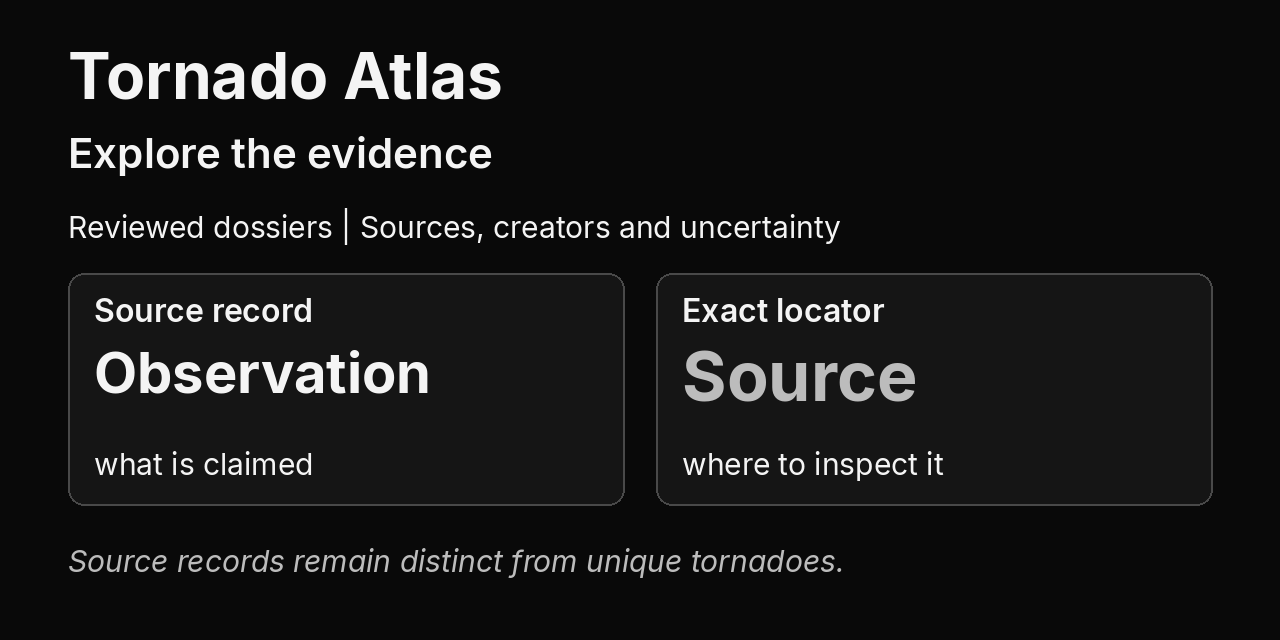
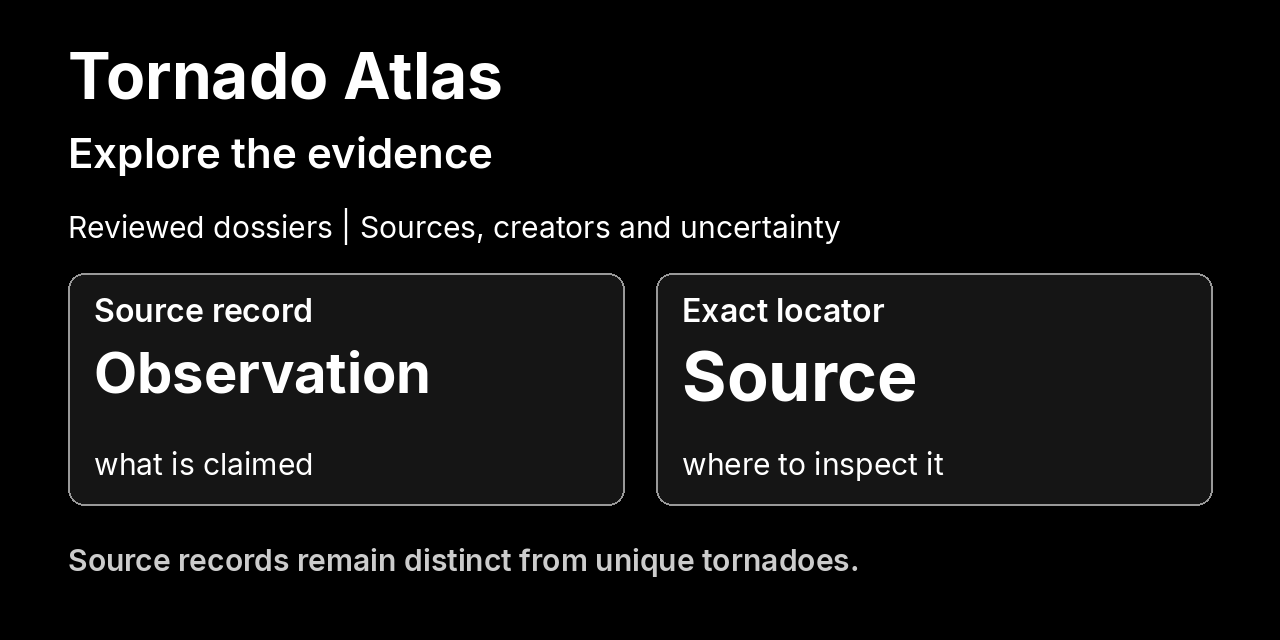
Move the mechanism figure and sharing card onto Obscur
Both rendered figures took their colors from the museum's page palette,
which is near black but not the Obscur tokens. docs/obscur-tokens.json now
holds the Obscur values, and both renderers draw from it: black canvas,
white text, gray secondary text, cards filled with the control gray and
outlined in the border gray. The sharing card also drops its italic footer
for SemiBold, since Obscur uses only the Regular, SemiBold and Bold faces,
and outlines its cards in border rather than divider.

docs/archive-dossiers.md and docs/ground-view-reconstruction.md are hashed
inputs of these figures, so their prose restyle lands here with the
re-render. Claims, numbers, link targets and code are unchanged, and the
interface label Synthetic ground-view comparison is kept.

A new test checks that every color both figures use is an Obscur value and
that the sharing card paints no italic and no label under 30 points.
Rendered headless with the pinned Inter 4.001 faces. Checked with the
card's unit tests, exhibit, catalogue and archive checks, both receipt
checks and the Node tests.

Changed region(s): [[0.0625, 0.8438, 0.6875, 0.9062], [0.5312, 0.5312, 0.7188, 0.625]]

diff --git a/tests/test_figure_tokens.py b/tests/test_figure_tokens.py
@@ -1,0 +1,42 @@
+"""Every rendered figure draws only Obscur token values."""
+
+import json
+import unittest
+from pathlib import Path
+
+ROOT = Path(__file__).resolve().parents[1]
+
+
+class FigureTokenTests(unittest.TestCase):
+    def setUp(self):
+        self.tokens = json.loads((ROOT / "docs/obscur-tokens.json").read_text(encoding="utf-8"))
+        self.values = set(self.tokens["tokens"].values())
+
+    def test_theme_roles_come_from_the_token_list(self):
+        theme = self.tokens["themes"]["obscur"]
+        self.assertLessEqual(set(theme.values()), self.values)
+        # A figure card is filled with control and outlined in border.
+        self.assertEqual(theme["panel"], self.tokens["tokens"]["control"])
+        self.assertEqual(theme["border"], self.tokens["tokens"]["border"])
+        self.assertEqual(theme["canvas"], self.tokens["tokens"]["canvas"])
+
+    def test_mechanism_figure_uses_obscur(self):
+        config = json.loads((ROOT / "docs/mechanism.json").read_text(encoding="utf-8"))
+        self.assertEqual(config["adapter"]["source"], "docs/obscur-tokens.json")
+        self.assertLessEqual(set(config["adapter"]["roles"].values()), self.values)
+        receipt = json.loads((ROOT / "docs/mechanism-rendering.json").read_text(encoding="utf-8"))
+        self.assertEqual(receipt["adapter"], config["adapter"])
+
+    def test_sharing_card_uses_obscur_without_italic(self):
+        from tools.render_share_preview import check, roles
+
+        config = json.loads((ROOT / "docs/sharing-card.json").read_text(encoding="utf-8"))
+        self.assertEqual(config["tokens"], "docs/obscur-tokens.json")
+        self.assertLessEqual(set(roles(config).values()), self.values)
+        receipt = check()
+        self.assertNotIn("Italic", " ".join(label["face"] for label in receipt["painted_labels"]))
+        self.assertTrue(all(label["size"] >= 30 for label in receipt["painted_labels"]))
+
+
+if __name__ == "__main__":
+    unittest.main()

diff --git a/tools/render_share_preview.py b/tools/render_share_preview.py
@@ -86,7 +86,7 @@ def content(config):
 
 def roles(config):
     text = (ROOT / config["tokens"]).read_text(encoding="utf-8")
-    if config["kind"] != "atlas":
+    if config["kind"] != "atlas" or config["tokens"].endswith(".json"):
         palette = json.loads(text)["themes"]["obscur"]
         return palette
     values = dict(re.findall(r"--([a-z-]+):(#(?:[a-f0-9]{6}));", text.split("}", 1)[0]))
@@ -112,7 +112,6 @@ def font_files(config, directory):
         ("Regular", 400, False),
         ("SemiBold", 600, False),
         ("Bold", 700, False),
-        ("Italic", 400, True),
     ]:
         path = directory / ("Inter-" + face + ".ttf")
         with TTFont(path) as font:
@@ -211,7 +210,7 @@ def main():
             (x, 273, x + 556, 505),
             radius=16,
             fill=palette["panel"],
-            outline=palette["divider"],
+            outline=palette.get("border", palette["divider"]),
             width=2,
         )
         label(x + 26, 298, name, 32, "SemiBold", max_width=502)
@@ -225,7 +224,7 @@ def main():
             max_width=502,
         )
         label(x + 26, 451, detail, 30, max_width=502)
-    label(68, 548, data["footer"], 30, "Italic", palette["muted"])
+    label(68, 548, data["footer"], 30, "SemiBold", palette["muted"])
     output = ROOT / config["output"]
     output.parent.mkdir(parents=True, exist_ok=True)
     image.save(output, optimize=True)

diff --git a/tests/test_share_preview.py b/tests/test_share_preview.py
@@ -31,7 +31,7 @@ class SharingTests(unittest.TestCase):
         self.assertFalse(receipt["experimental_work_rerun"])
         self.assertEqual(
             {x["face"] for x in receipt["painted_labels"]},
-            {"Inter-Regular", "Inter-SemiBold", "Inter-Bold", "Inter-Italic"},
+            {"Inter-Regular", "Inter-SemiBold", "Inter-Bold"},
         )
         for relative, canonical in config["page_urls"].items():
             head = Head()

diff --git a/docs/archive-dossiers.md b/docs/archive-dossiers.md
@@ -22,31 +22,31 @@ Run `python -m atlas.archive` to validate and build the projection. Run `python 
 
 A direct event visit loads the index, its bounded revision list and one selected event document. It does not fetch the complete media collection or third party images. A record visit hashes the stable ID to locate one of the existing catalogue shards. The source download contains only that selected public record. This uses the current catalogue count and shard map rather than copying thousands of records into another index.
 
-The index and revision list retain the full `dossier_sha256` logical identity and a separate `file_sha256` for the exact published bytes. The logical identity uses the existing sorted-key canonical JSON encoding in `atlas.archive.digest`, without a terminating LF. It is unchanged by this byte check. Existing dossier paths and retained file bytes remain intact, including their original whitespace and numeric spelling. The builder checks persisted dossier associations before publishing the index and rejects truncated-path collisions or attempted immutable replacement. Python values such as `1`, `1.0` and `true` are compared by their canonical publication encoding, so ordinary Python equality cannot silently substitute a different representation.
+The index and revision list retain the full `dossier_sha256` logical identity and a separate `file_sha256` for the exact published bytes. The logical identity uses the existing canonical JSON encoding with sorted keys in `atlas.archive.digest`, without a terminating LF. It is unchanged by this byte check. Existing dossier paths and retained file bytes remain intact, including their original whitespace and numeric spelling. The builder checks persisted dossier associations before publishing the index and rejects collisions between truncated paths or attempted immutable replacement. Python values such as `1`, `1.0` and `true` are compared by their canonical publication encoding, so ordinary Python equality cannot silently substitute a different representation.
 
-Current, retained, comparison and creator views share one dossier loading boundary. It reads at most 200,000 accepted response bytes, checks SHA256 against the selected full file reference, then decodes strict UTF8, parses JSON and validates the reading structure before displaying evidence. Revision lists have a 100,000-byte bound and must agree with the index's full current tuple. The response stream is cancelled on a reading failure. A chunk that exceeds the remaining allowance is rejected before accumulation. These are accepted-buffer limits, not hard network-transfer ceilings. Creator contributions are staged until every selected current dossier passes, so a later failure cannot leave a partial contribution view.
+Current, retained, comparison and creator views share one dossier loading boundary. It reads at most 200,000 accepted response bytes, checks SHA256 against the selected full file reference, then decodes strict UTF8, parses JSON and validates the reading structure before displaying evidence. Revision lists have a bound of 100,000 bytes and must agree with the index's full current tuple. The response stream is cancelled on a reading failure. A chunk that exceeds the remaining allowance is rejected before accumulation. These are limits on the accepted buffer, not hard ceilings on network transfer. Creator contributions are staged until every selected current dossier passes, so a later failure cannot leave a partial contribution view.
 
-The primary metadata download button fetches and checks a fresh response before starting a browser download of those exact bytes. A failed response leaves the rendered dossier available and the same button ready to retry. Only one dossier download check runs at a time. The browser object URL is revoked after the download starts. A separate link explicitly opens the raw, unverified metadata file. The raw archive index and current documentary chapter links remain available without JavaScript. The no-script page does not provide the interactive retained-dossier reader.
+The primary metadata download button fetches and checks a fresh response before starting a browser download of those exact bytes. A failed response leaves the rendered dossier available and the same button ready to retry. Only one dossier download check runs at a time. The browser object URL is revoked after the download starts. A separate link explicitly opens the raw, unverified metadata file. The raw archive index and current documentary chapter links remain available without JavaScript. Without JavaScript, the page does not provide the interactive reader for retained dossiers.
 
 This checks the association asserted by the publication metadata. It does not authenticate that metadata, establish freshness, verify the history as complete, or prove a historical claim. A publisher or attacker able to replace both the trusted reference and its file can supply another matching pair. Byte consistency also does not enlarge source inspection, reuse rights, optical timing or camera registration.
 
 Current documentary chapter links remain available when JavaScript or dossier metadata cannot load. They open the current historical accounts, without replacing a requested retained dossier revision. Dossier search, evidence cards and revision metadata require JavaScript.
 
-The inspected-source directory offers another entrance. Search source titles, exact locators, revision records and inspection scope across the current dossiers, or narrow the results to one event. Each card preserves the source's rights statement and separates linked observation counts from linked media counts. These counts do not establish independent sources, complete inspection or media availability. Two cards at the same URL remain separate when they belong to different source records or inspected scopes.
+The directory of inspected sources offers another entrance. Search source titles, exact locators, revision records and inspection scope across the current dossiers, or narrow the results to one event. Each card preserves the source's rights statement and separates linked observation counts from linked media counts. These counts do not establish independent sources, complete inspection or media availability. Two cards at the same URL remain separate when they belong to different source records or inspected scopes.
 
-The directory is a separate content-addressed metadata file, loaded only when a reader opens source discovery. It does not download the event documents or original media to search them. Its source-card links include the indexed dossier revision, so a later publication cannot silently replace the evidence attached to that result. A mismatched directory fails with a retry and archive route. The builder rejects a directory over 256 KB rather than cutting off source records. Growth beyond that boundary needs an explicit loading design.
+The directory is a separate metadata file addressed by its content, loaded only when a reader opens source discovery. It does not download the event documents or original media to search them. The links on its source cards include the indexed dossier revision, so a later publication cannot silently replace the evidence attached to that result. A mismatched directory fails with a retry and archive route. The builder rejects a directory over 256 KB rather than cutting off source records. Growth beyond that boundary needs an explicit loading design.
 
-Each event also loads a small revision list. The correction-history section links the retained snapshots and their exact metadata downloads. A `revision` query identifies one indexed dossier SHA256, so its observations and source-card links stay in that same snapshot. Unknown or cross-event identities produce an unavailable view rather than silently showing current text. Existing links without a revision still open the current dossier.
+Each event also loads a small revision list. The correction history section links the retained snapshots and their exact metadata downloads. A `revision` query identifies one indexed dossier SHA256, so its observations and the links on its source cards stay in that same snapshot. An unknown identity or an identity from another event produces an unavailable view rather than silently showing current text. Existing links without a revision still open the current dossier.
 
-Related source-record links and creator pages continue to open the current catalogue and attribution views. The retained dossier preserves its own association basis, evidence and source cards. It does not claim that the catalogue or creator page has been rewound to that publication.
+Links to related source records and creator pages continue to open the current catalogue and attribution views. The retained dossier preserves its own association basis, evidence and source cards. It does not claim that the catalogue or creator page has been rewound to that publication.
 
-Publication-review records retain their stated basis and predecessor identity. Field differences are calculated only when both snapshots are available. An absent predecessor remains an explicit gap, and a snapshot without a review record does not acquire an invented date or decision. The list puts the current dossier first and orders the rest by identifier. It is not a complete chronological history. Dossier identities remain separate from original source revisions and historical clock roles.
+Publication review records retain their stated basis and predecessor identity. Field differences are calculated only when both snapshots are available. An absent predecessor remains an explicit gap, and a snapshot without a review record does not acquire an invented date or decision. The list puts the current dossier first and orders the rest by identifier. It is not a complete chronological history. Dossier identities remain separate from original source revisions and historical clock roles.
 
-Where that recorded predecessor is retained, the history card links to the complete earlier and later values selected by the publication change list. The route supplies one event, successor `revision` and full `predecessor` identity. Duplicate or malformed parameters, a self edge, another event or a predecessor different from the explicit review fail admission. The successor's own publication review must agree with the recorded history. The reader reuses its checked successor and loads one predecessor through the same byte-verifying boundary. Both inputs and all requested targets are prepared before either dossier or the pair enters the page. A failed second response leaves the unavailable view and its retry, archive, catalogue and documentary recovery routes. Retry reloads the full selected URL even when it includes a section fragment.
+Where that recorded predecessor is retained, the history card links to the complete earlier and later values selected by the publication change list. The route supplies one event, successor `revision` and full `predecessor` identity. Duplicate or malformed parameters, a self edge, another event or a predecessor different from the explicit review fail admission. The successor's own publication review must agree with the recorded history. The reader reuses its checked successor and loads one predecessor through the same boundary that verifies bytes. Both inputs and all requested targets are prepared before either dossier or the pair enters the page. A failed second response leaves the unavailable view and its retry, archive, catalogue and documentary recovery routes. Retry reloads the full selected URL even when it includes a section fragment.
 
-`dossier-literal-model.mjs` scans the exact decoded source text under the existing 200,000-byte limit, a maximum depth of 32 and 20,000 visited tokens including object keys. It retains complete value ranges, original numeric spelling and whitespace within each value. Range positions are JavaScript string indices, not byte offsets. The scan rejects duplicate decoded keys throughout all subtrees and repeated row identities in every evidence category. The publisher's existing changes list selects fields and rows. The browser does not calculate another difference list from JavaScript equality or spelling. Disjoint dossier field descriptors are permitted. Repeated row descriptors, overlapping fields, contradictory row presence and fields absent at both endpoints are rejected.
+`dossier-literal-model.mjs` scans the exact decoded source text under the existing limit of 200,000 bytes, a maximum depth of 32 and 20,000 visited tokens including object keys. It retains complete value ranges, original numeric spelling and whitespace within each value. Range positions are JavaScript string indices, not byte offsets. The scan rejects duplicate decoded keys throughout all subtrees and repeated row identities in every evidence category. The publisher's existing changes list selects fields and rows. The browser does not calculate another difference list from JavaScript equality or spelling. Disjoint dossier field descriptors are permitted. Repeated row descriptors, overlapping fields, contradictory row presence and fields absent at both endpoints are rejected.
 
-The comparison shows full logical and exact file identities separately from the publication candidate identity. Earlier and later accounts keep complete contextual limits, locators, retained inspection records and source rights. Strings have readable decoded text and a native disclosure of their exact raw JSON. Other values retain their complete literals. An absent field, an absent row and explicit `null` have distinct labels. Versioned source, evidence and full-dossier routes remain attached to each endpoint. Current catalogue and attribution routes are labelled as current, and direct raw-file links remain labelled unverified. The existing comparison within one dossier and fresh verified download remain available. Without scripting, the current documentary chapters and raw archive paths provide the stated reading fallback. Comparing publication metadata does not enlarge original-source inspection, historical registration or reuse rights.
+The comparison shows full logical and exact file identities separately from the publication candidate identity. Earlier and later accounts keep complete contextual limits, locators, retained inspection records and source rights. Strings have readable decoded text and a native disclosure of their exact raw JSON. Other values retain their complete literals. An absent field, an absent row and explicit `null` have distinct labels. Versioned routes to the source, the evidence and the full dossier remain attached to each endpoint. Current catalogue and attribution routes are labelled as current, and direct links to raw files remain labelled unverified. The existing comparison within one dossier and fresh verified download remain available. Without scripting, the current documentary chapters and raw archive paths provide the stated reading fallback. Comparing publication metadata does not enlarge inspection of the original source, historical registration or reuse rights.
 
 The archive builder validates retained dossier filenames against their content identities and leaves their existing bytes untouched. It rejects malformed retained evidence and attempted immutable replacement. The new revision list does not expand source inspection, media hosting rights or historical registration.
 
@@ -62,7 +62,7 @@ The [local research desk](curator-workflow.md) exports a candidate without priva
 python -m atlas.archive --candidate /absolute/private/candidate.json --basis "Describe the inspected evidence and publication scope."
 ```
 
-Promotion rejects a changed base. It records agent processing and changes intake to published without promoting assertion, availability, time, position or rights. The reviewed override lives in `research/archive-curated`. If retained adapter inputs later change, publication stops until that override is rebased and reviewed. A source-record draft cannot promote itself into a canonical event.
+Promotion rejects a changed base. It records agent processing and changes intake to published without promoting assertion, availability, time, position or rights. The reviewed override lives in `research/archive-curated`. If retained adapter inputs later change, publication stops until that override is rebased and reviewed. A draft of a source record cannot promote itself into a canonical event.
 
 The first exercised cycle clarifies the existing Robinson source locator with seven retained presentation seconds. It adds no duplicate media, new timing claim or continuous video coverage. Private rehearsal drafts, notes and backups remain outside the repository. Reverting a reviewed override restores the retained adapter output. Content addressed public documents remain available for older index references, and the existing Git history retains the publication decision.
 

diff --git a/docs/ground-view-reconstruction.md b/docs/ground-view-reconstruction.md
@@ -1,4 +1,4 @@
-# Ground-view rendering and comparison
+# Ground view rendering and comparison
 
 The spatial replay contains a deliberately selected synthetic camera exercise.
 Open the appearance selector and choose Synthetic ground-view comparison, or
@@ -61,7 +61,7 @@ The Formation and decay study choice adds the same `genesis-v1` scenario used
 by Form Study to the existing ground cameras. Open
 `reconstruction.html?event=el-reno-2013&appearance_view=formation&ground_view=synthetic-front&t=120#replay-appearance`.
 The direct route starts paused at 1x and retains the existing end, restart,
-camera, history and outside-interval behavior. There is no second animation
+camera, history and behavior outside the interval. There is no second animation
 clock. The shared player maps linearly to the study:
 
 ```
@@ -120,8 +120,8 @@ Lighter reduces both particle count and the `world-v1` density raster, to a
 320 by 200 cap. Standard retains the 512 by 320 cap. Both preserve the complete
 camera frame, selected time and scenario parameters. Older lighting links keep
 their earlier density cap. The lower drawing size trades fine spatial detail
-for fewer shaded pixels. Native selected-state checks cover both drawing sizes
-at narrow and wide viewports. The retained software recording is sparse and
+for fewer shaded pixels. Native checks of the selected state cover both drawing
+sizes at narrow and wide viewports. The retained software recording is sparse and
 supplies no hardware performance or smoothness claim.
 
 The ground remains an authored plane. Its shading supplies neither El Reno's
@@ -136,11 +136,11 @@ matched recordings of about twenty seconds. The lit recording has fewer drawing
 completions on isolated SwiftShader software rendering. Its larger display gaps
 remain a limitation rather than a smoothness pass. The blocky frames at index
 101 in the earlier matched formation clips still have an unknown cause.
-A separate fixed-state recording varies after 64 identical observed native
+A separate recording of a fixed state varies after 64 identical observed native
 framebuffers. That bounds the controlled discrepancy after framebuffer
-observation, without identifying its exact stage or recovering the old
-frame-to-draw mapping. Source review, required CI and served acceptance remain
-distinct from these recorded-frame observations.
+observation, without identifying its exact stage or recovering the old mapping
+from frames to draws. Source review, required CI and served acceptance remain
+distinct from these observations of recorded frames.
 
 ## Storm scene and shared transport
 
@@ -180,9 +180,9 @@ Positions, clipping distances and model geometry use authored scene units.
 The existing height 2.6 stays in those units. No surveyed width, geographic
 coordinate or EF rating is converted into a funnel radius or camera position.
 
-Each camera declares position, target and an up vector; complete image width
-and height; focal lengths fx and fy in pixels; principal point cx and cy;
-near and far clipping; and an explicit distortion model. Position, orientation,
+Each camera declares position, target and an up vector, complete image width
+and height, focal lengths fx and fy in pixels, principal point cx and cy,
+near and far clipping, and an explicit distortion model. Position, orientation,
 intrinsics and distortion each retain a measured, reported, fitted or
 illustrative classification. Both demonstration cameras are wholly illustrative.
 Unknown quantities cannot supply a projection. At present only an explicitly
@@ -202,38 +202,43 @@ y = cy - fy * dot(relative, corrected_up) / d
 
 The graphics matrix uses those same declared image bounds, rather than the
 website viewport aspect. The complete source frame is fitted with letterboxing.
-A common backing-buffer scale preserves that frame when either raster cap is
-reached. Point sprites use the focal lengths and fitted raster scale, including
-their per-axis aspect. The source scissor prevents sprites from painting into
-the letterbox. Source fitting uses the canvas client area, excluding its border.
-Client dimensions and raster rounding do not provide subpixel measurements.
-Sprite diameters retain the WebGL implementation's point-size limit. The old authored orbit remains the separate legacy rendering
-path. Geographic orbit controls do not turn the source-locked appearance view.
+A common scale for the backing buffer preserves that frame when either raster
+cap is reached. Point sprites use the focal lengths and fitted raster scale,
+including their aspect on each axis. The source scissor prevents sprites from
+painting into the letterbox. Source fitting uses the canvas client area,
+excluding its border. Client dimensions and raster rounding do not provide
+subpixel measurements. Sprite diameters retain the point size limit of the WebGL
+implementation. The old authored orbit remains the separate legacy rendering
+path. Geographic orbit controls do not turn the appearance view locked to the
+source.
 Schematic partial forms cannot inherit a camera projection.
 
 ## Independent synthetic reference
 
 The six SVGs were constructed separately from the production projector. They
-use scalar camera-basis and pinhole equations, with side-surface tangency for
-an axisymmetric profile. Radius at normalized height h is base + flare * h^1.6;
-height is 2.6 h. Over the authored interval, base changes from 0.18 to 0.83 and
-flare from 0.62 to 0.32. Bend is zero. Top and base joins are declared display
-closures. The reference marks the origin, two ground points at X = -2 and +2,
-and the point at Y = 2.6. No historical pixels are present.
+use scalar equations for the camera basis and the pinhole projection, with
+tangency to the side surface for an axisymmetric profile. Radius at normalized
+height h is base + flare * h^1.6, and height is 2.6 h. Over the authored
+interval, base changes from 0.18 to 0.83 and flare from 0.62 to 0.32. Bend is
+zero. Top and base joins are declared display closures. The reference marks the
+origin, two ground points at X = -2 and +2, and the point at Y = 2.6. No
+historical pixels are present.
 
 Before fitting or rendered inspection, the software comparison criteria are:
 
-* The independently derived reference-point positions constrain axes, signs,
-  principal point, pitch, roll and unequal focal lengths. Float32 matrix
-  comparisons allow 0.01 source-image pixels, a software numeric tolerance.
+* The independently derived positions of the reference points constrain axes,
+  signs, principal point, pitch, roll and unequal focal lengths. Float32 matrix
+  comparisons allow 0.01 pixels in the source image, a software numeric
+  tolerance.
 * Complete source support must remain inside the fitted frame through viewport
-  and pixel-density changes. Ordinary raster rounding is separate from camera
+  and pixel density changes. Ordinary raster rounding is separate from camera
   uncertainty.
 * Actual graphics marks must be painted at the independently predicted image
   locations. A small pixel neighborhood is a raster presence control, without
   a claim of subpixel residual measurement.
-* Shared-time shape and camera parameters must agree after pause, reverse seek,
-  rate or quality changes. Drawing quality changes particle sampling, not time.
+* Shape and camera parameters at the shared time must agree after pause,
+  reverse seek, rate or quality changes. Drawing quality changes particle
+  sampling, not time.
 * Source changes, missing cameras, gaps and late reference callbacks must not
   transfer a previous camera, reference or caption into the selected state.
 
@@ -248,25 +253,27 @@ The El Reno appearance declaration retains eight discrete observations across
 four sequences and no registered continuous window. The best retained
 calibration lead is the late RaXPol photographic sequence in
 [Wakimoto et al. (2015), Section 2](https://doi.org/10.1175/MWR-D-15-0034.1).
-Its photographer locations and horizon targets explain why a source-specific
-camera model matters. Their calibration and uncertainty do not transfer to
+Its photographer locations and horizon targets explain why a camera model tied
+to that source matters. Their calibration and uncertainty do not transfer to
 another exposure, creator, crop or uploaded edit.
 
-The bounded next comparison target is the source-reported 23:24:41 UTC exposure
-in Wakimoto et al. (2015), Figure 5(a). It is a late-life view, not genesis.
-The paper's identity and retained figure interpretation do not establish the
-original exposure or a reusable Atlas camera solution. The source-reported
-23:25:01 exposure in Figures 9(a) and 10(a), and 23:25:09 exposure in Figure
-11(a), are candidate held-out checks after their own qualification. Figures 9
-and 10 show one exposure, not two independent observations.
+The bounded next comparison target is the exposure in Wakimoto et al. (2015),
+Figure 5(a), that the source reports at 23:24:41 UTC. It is a view from late in
+the tornado's life, not genesis. The paper's identity and retained figure
+interpretation do not establish the original exposure or a reusable Atlas
+camera solution. The exposure the source reports at 23:25:01 in Figures 9(a)
+and 10(a), and the one at 23:25:09 in Figure 11(a), are candidates to hold out
+as checks after their own qualification. Figures 9 and 10 show one exposure,
+not two independent observations.
 
-The next deciding input is an original exposure-specific calibration record,
-or an original image with surveyed horizon correspondences, tied to that uniquely
-identified exposure and its documented crop/edit relationship. A changing historical interval would additionally need
-the inspectable sequence, edit and time correspondence, continuous inspection,
-camera-change assessment and item-specific allowed use. No new camera fit,
-pixel residual, held-out result or registered interval is reported. Sparse
-stills do not become an animation through this software demonstration.
+The next deciding input is an original calibration record specific to one
+exposure, or an original image with surveyed horizon correspondences, tied to
+that uniquely identified exposure and its documented crop/edit relationship. A
+changing historical interval would additionally need the inspectable sequence,
+edit and time correspondence, continuous inspection, assessment of camera
+changes and allowed use specific to each item. No new camera fit, pixel
+residual, result of a held out check or registered interval is reported.
+Sparse stills do not become an animation through this software demonstration.
 
 Nolte's permitted full JPEGs remain discrete documentary observations with
 their complete marks. Their first unique correspondence requirement, frozen
